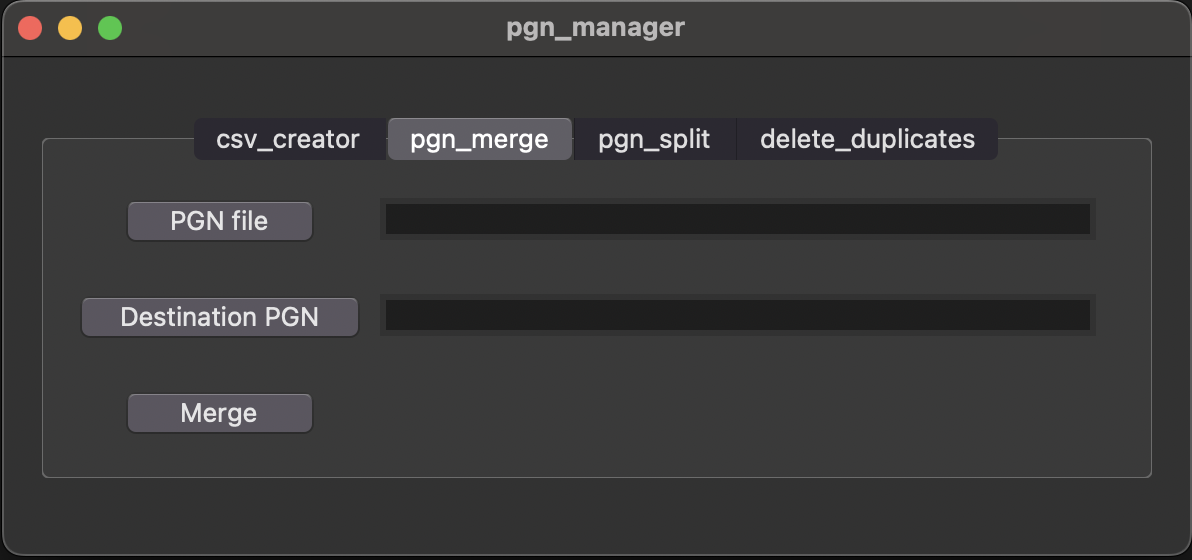
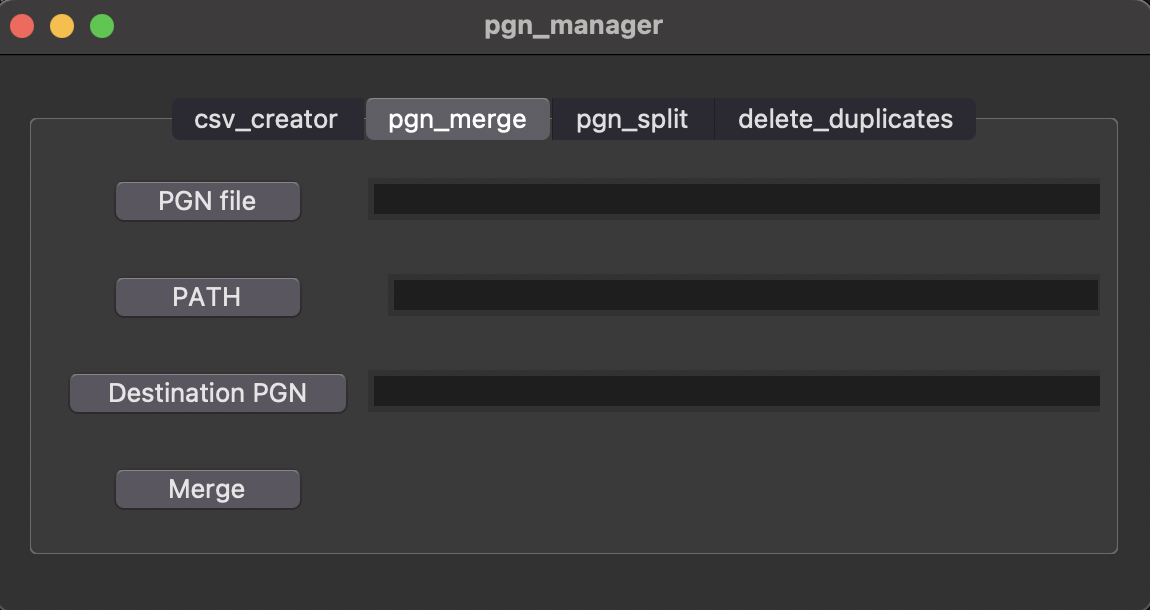
Update readme

diff --git a/README.md b/README.md
@@ -43,9 +43,11 @@ or you can specify the path to a CSV file that does not exist. The script will t
 <img src="./images/ex_csv_not_exist.png" alt="screen_gui" width = "500" height = "57">
 <img src="./images/screen_pgnmanager1.png" alt="screen_gui" width = "480" height = "231">
 
-- merge_pgn allows you to merge two PGN files. The merge will be performed in the second input file (destination pgn). All matches from the first file will be written to the second file.
+- merge_pgn allows you to merge PGN files.
 - INPUT ONE: pgn file (example: C:\users\u1\documents\matches.pgn)
-- INPUT TWO: pgn_file where the first file games will be saved (example: C:\users\u1\documents\matches.pgn)
+- INPUT TWO: path that contains pgn files (example: C:\users\u1\documents\folder_test)
+- INPUT THREE: pgn_file where the first file games will be saved (example: C:\users\u1\documents\matches.pgn)
+It is possible to specify a PGN file, a directory containing PGN files, or both. In the latter case, both the PGN file (first input) and the PGN files in the directory (second input) will be merged with the destination PGN (third input).
 <img src="./images/screen_pgnmanager2.png" alt="screen_gui" width = "480" height = "231">
 
 - split_pgn allows you to split multiple games from a PGN file. The output PGNs will be saved in a folder specified by the user.
